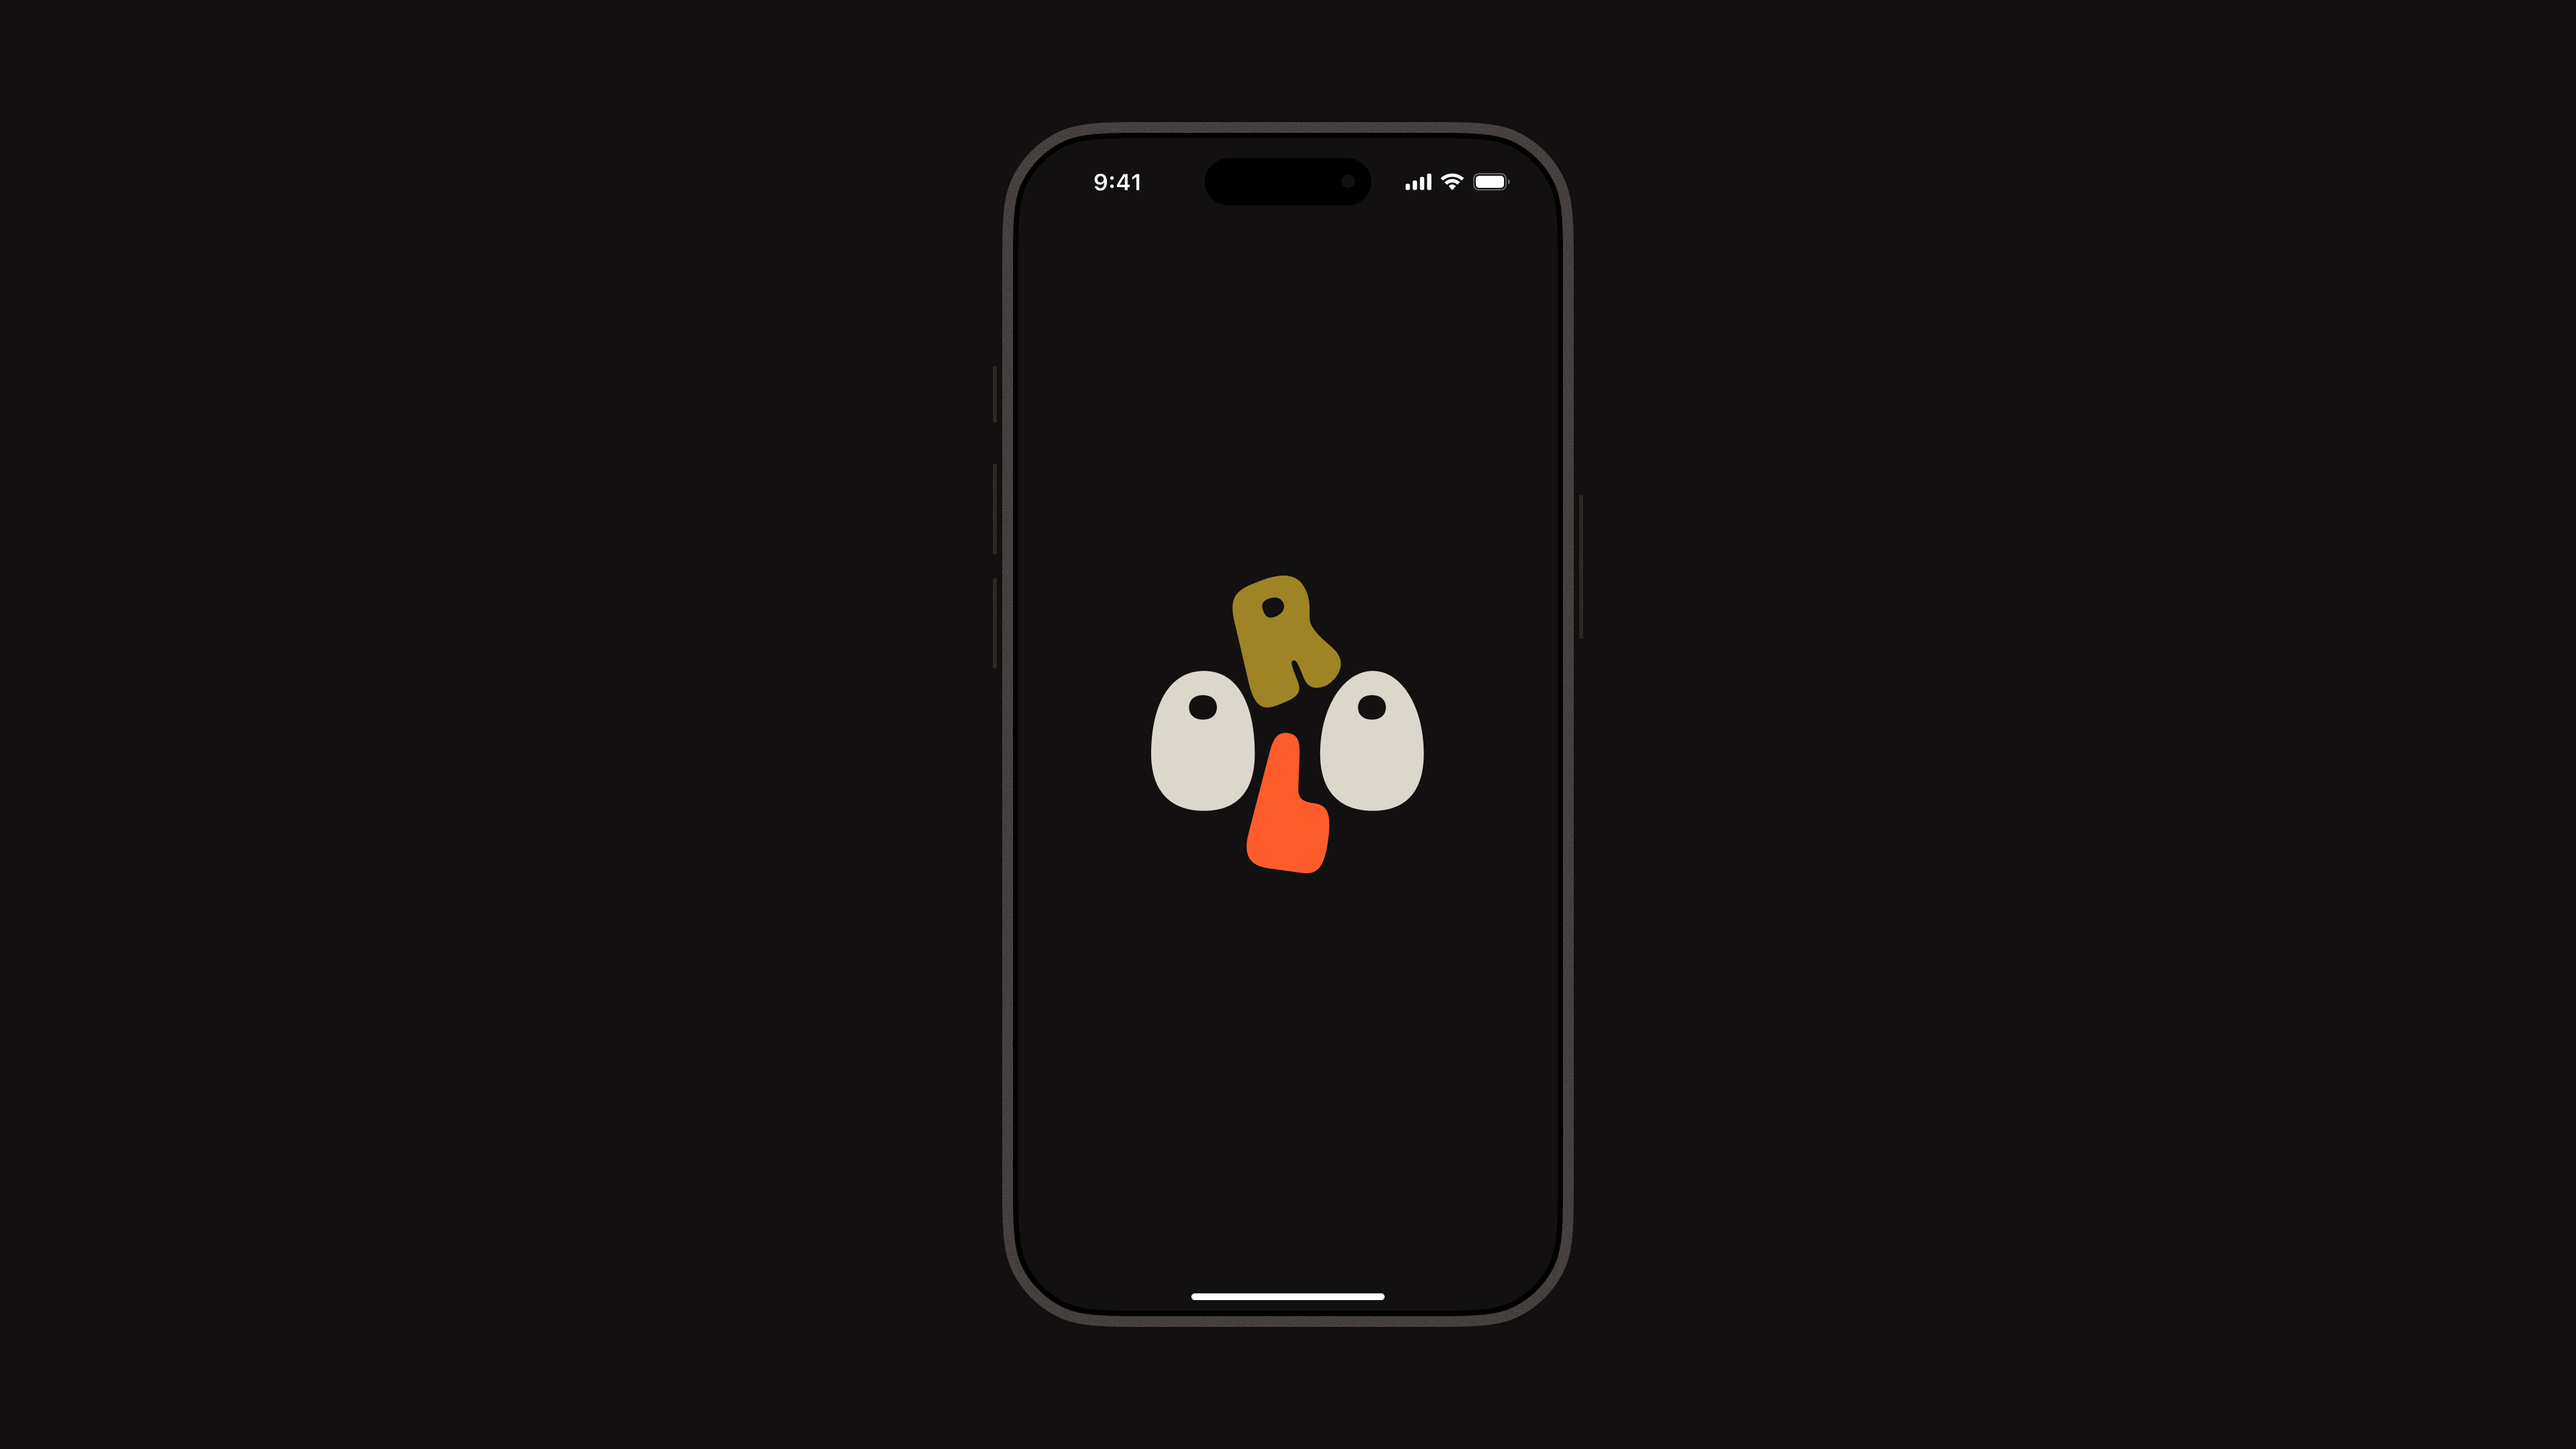
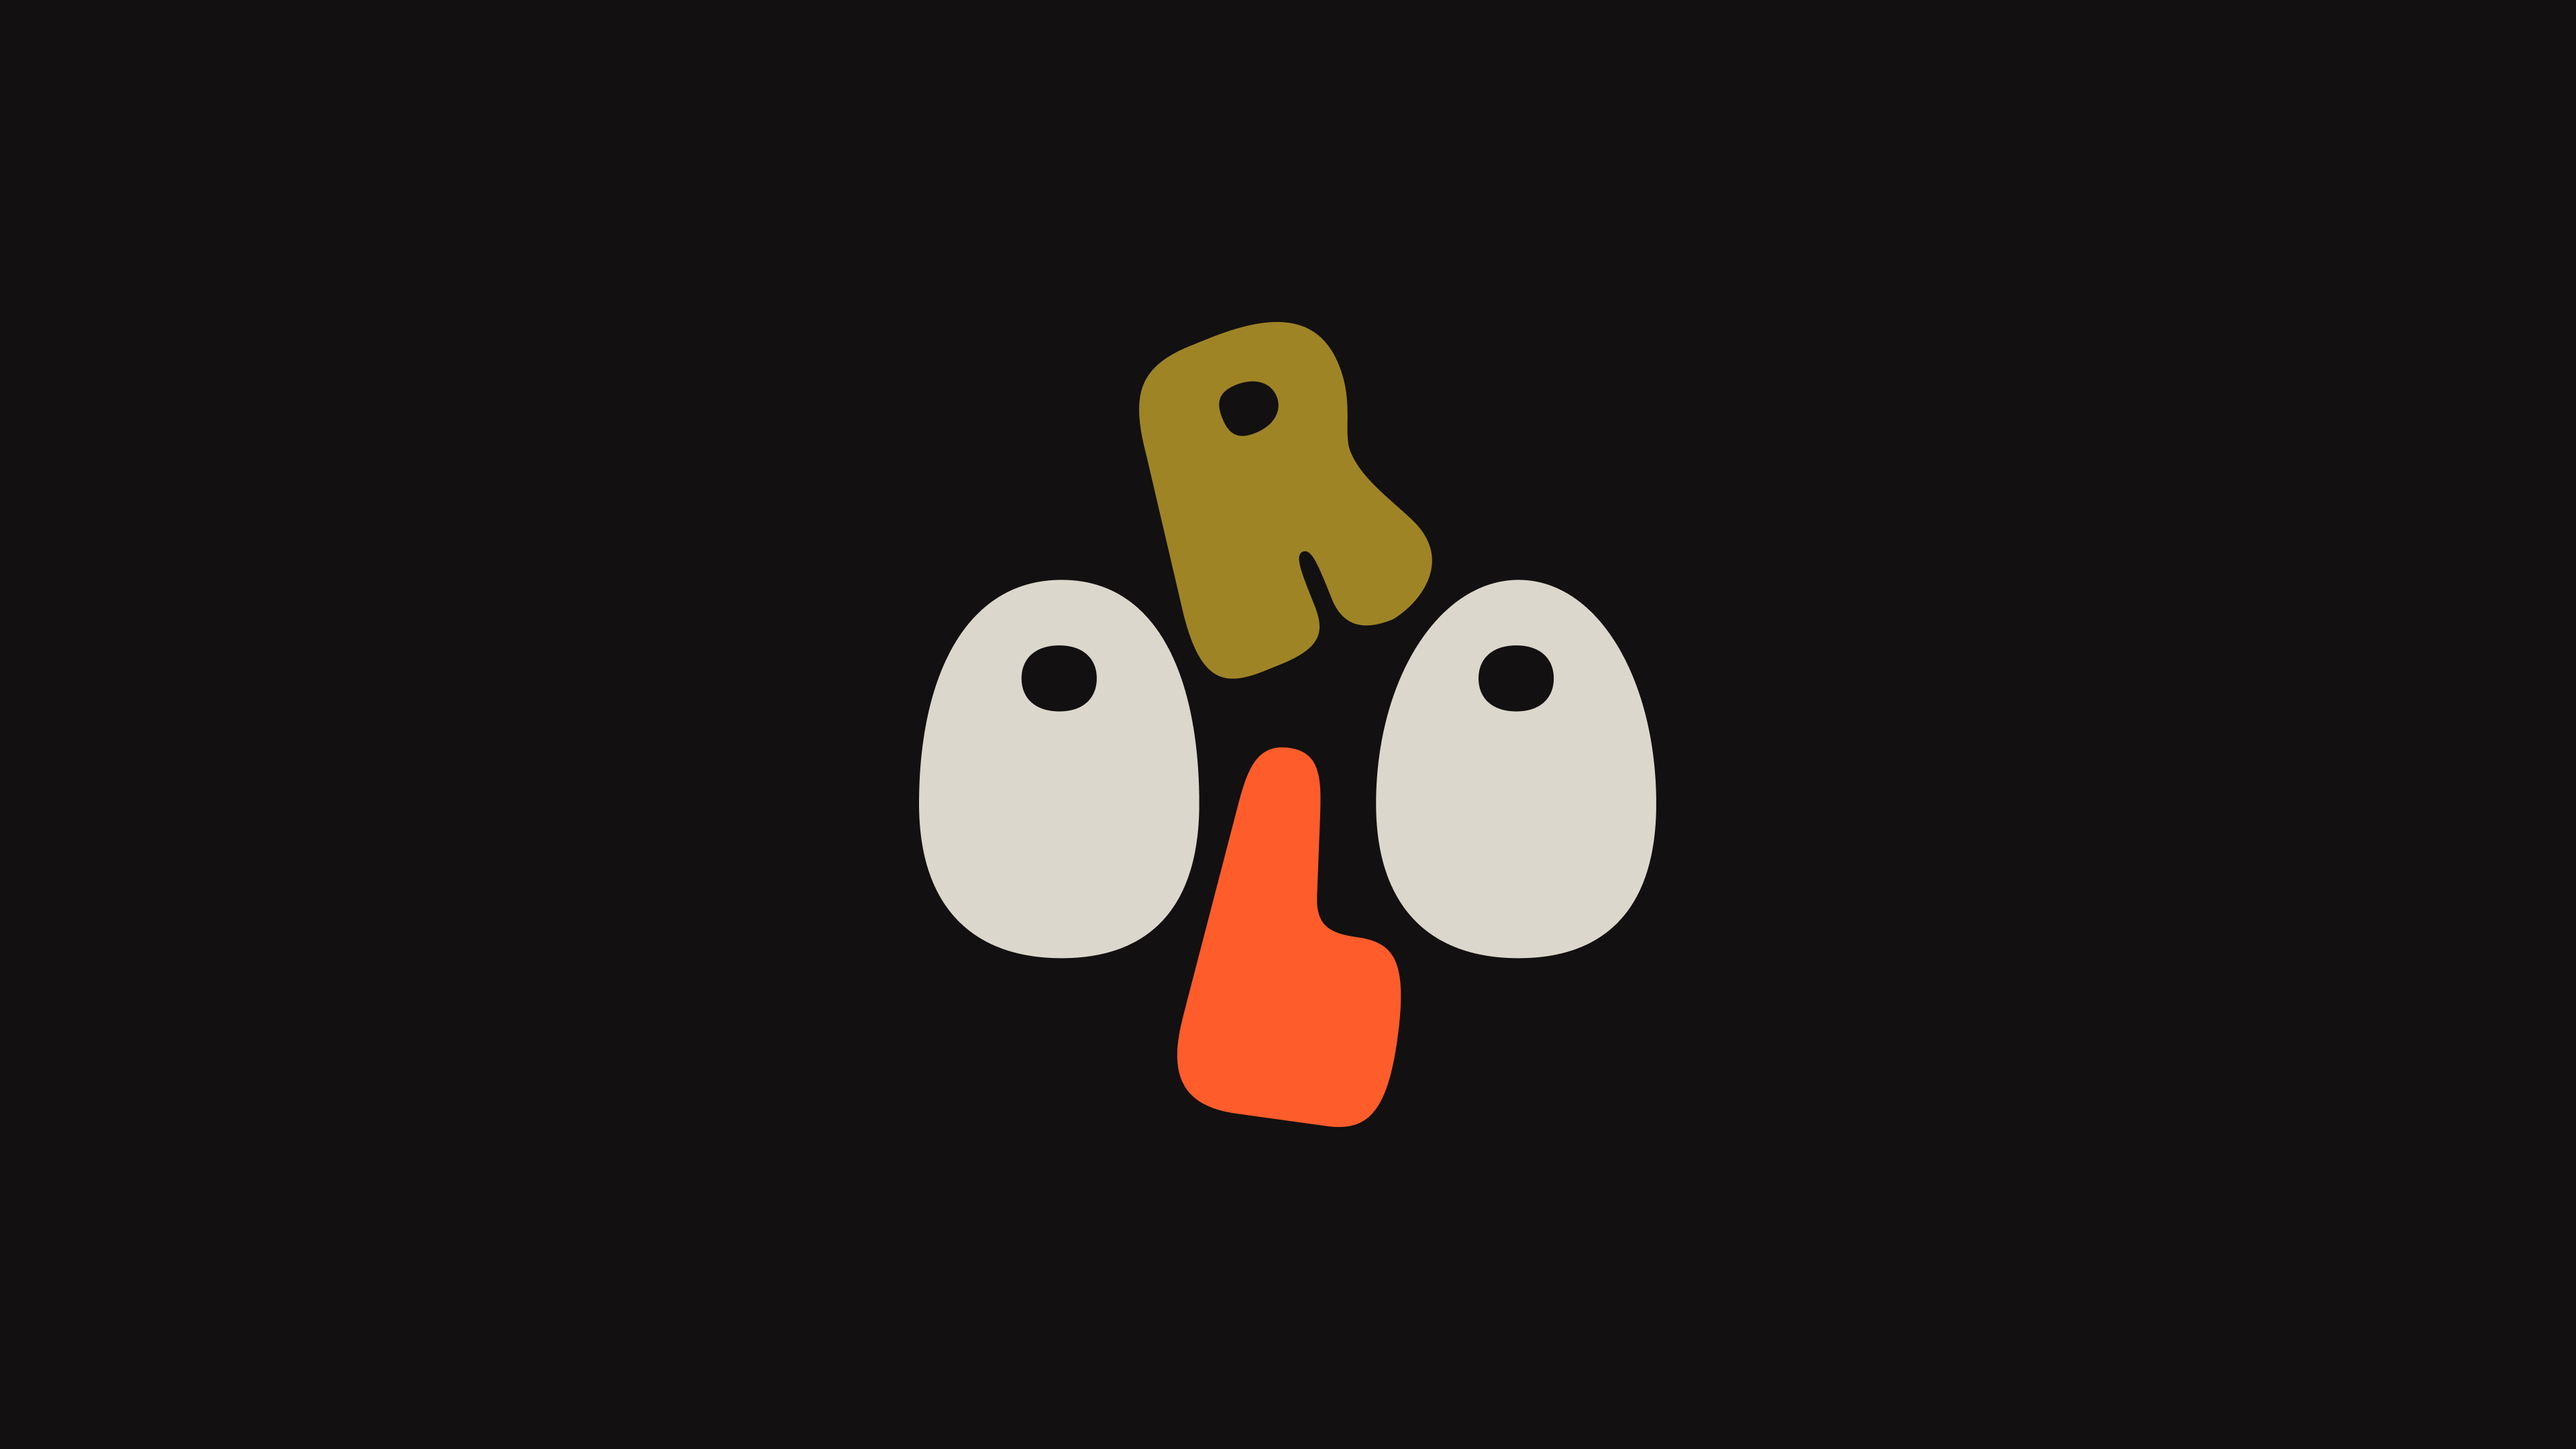
rolo

Changed region(s): [[0.3438, 0.062, 0.6562, 0.8995], [0.4062, 0.8685, 0.5938, 0.9306]]

diff --git a/rolo-radio.html b/rolo-radio.html
@@ -46,7 +46,7 @@
       </div>
 
       <div class="row">
-        <img src="images/rolo-radio_mikael-westman_01.png" alt="Rolo Radio tuning screen with connected station nodes" width="3840" height="2160">
+        <img src="images/rolo-radio_mikael-westman_01.png" alt="Rolo Radio main screen" width="3840" height="2160">
         <p class="image-description">The main view. Tune in to stations with a giant dial and satisfying clicking haptic feedback.</p>
       </div>
 
@@ -61,8 +61,12 @@
       </div>
 
       <div class="row">
-        <img src="images/rolo-radio_mikael-westman_04.png" alt="Rolo Radio iOS widgets" width="3840" height="2160">
+        <img src="images/rolo-radio_mikael-westman_04.png" alt="Rolo Radio iOS audio effects" width="3840" height="2160">
         <p class="image-description">Not your grandpa's old radio. Have some fun and fidget around with live audio effects.</p>
+      </div>
+
+      <div class="row">
+        <img src="images/rolo-radio_mikael-westman_05.png" alt="Rolo Radio logo" width="3840" height="2160">
       </div>
     </div>
   </page-content>
